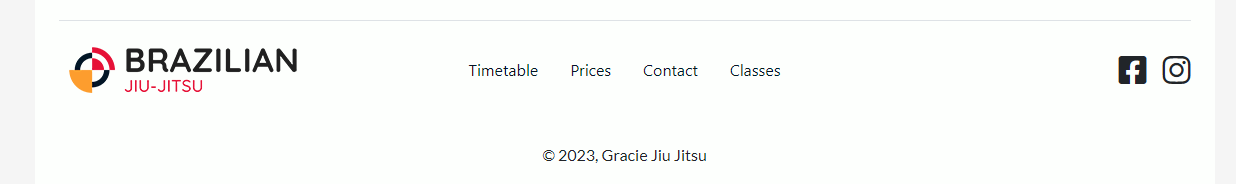
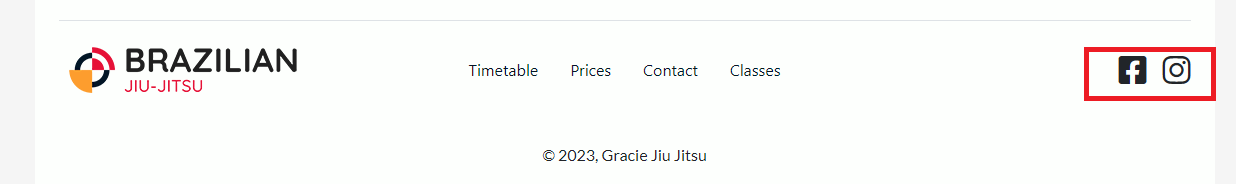
add existing user images  to user testing

Changed region(s): [[0.8608, 0.2446, 0.9838, 0.5707]]

diff --git a/README.md b/README.md
@@ -363,6 +363,11 @@ The website was tested onthe following browsers:
 |-------------|------------|---------------------|-------------------|
 | Social links in footer | Click FB or IG link in footer | links open up gym FB or IG page | Pages not created yet so href is set to "#" |
 
+<details>
+<summary>Social Links</summary>
+<img src="https://github.com/ouzifeng/bjj-gym/blob/main/docs/features/social-links-feature.png">
+</details>
+
 
 
 
